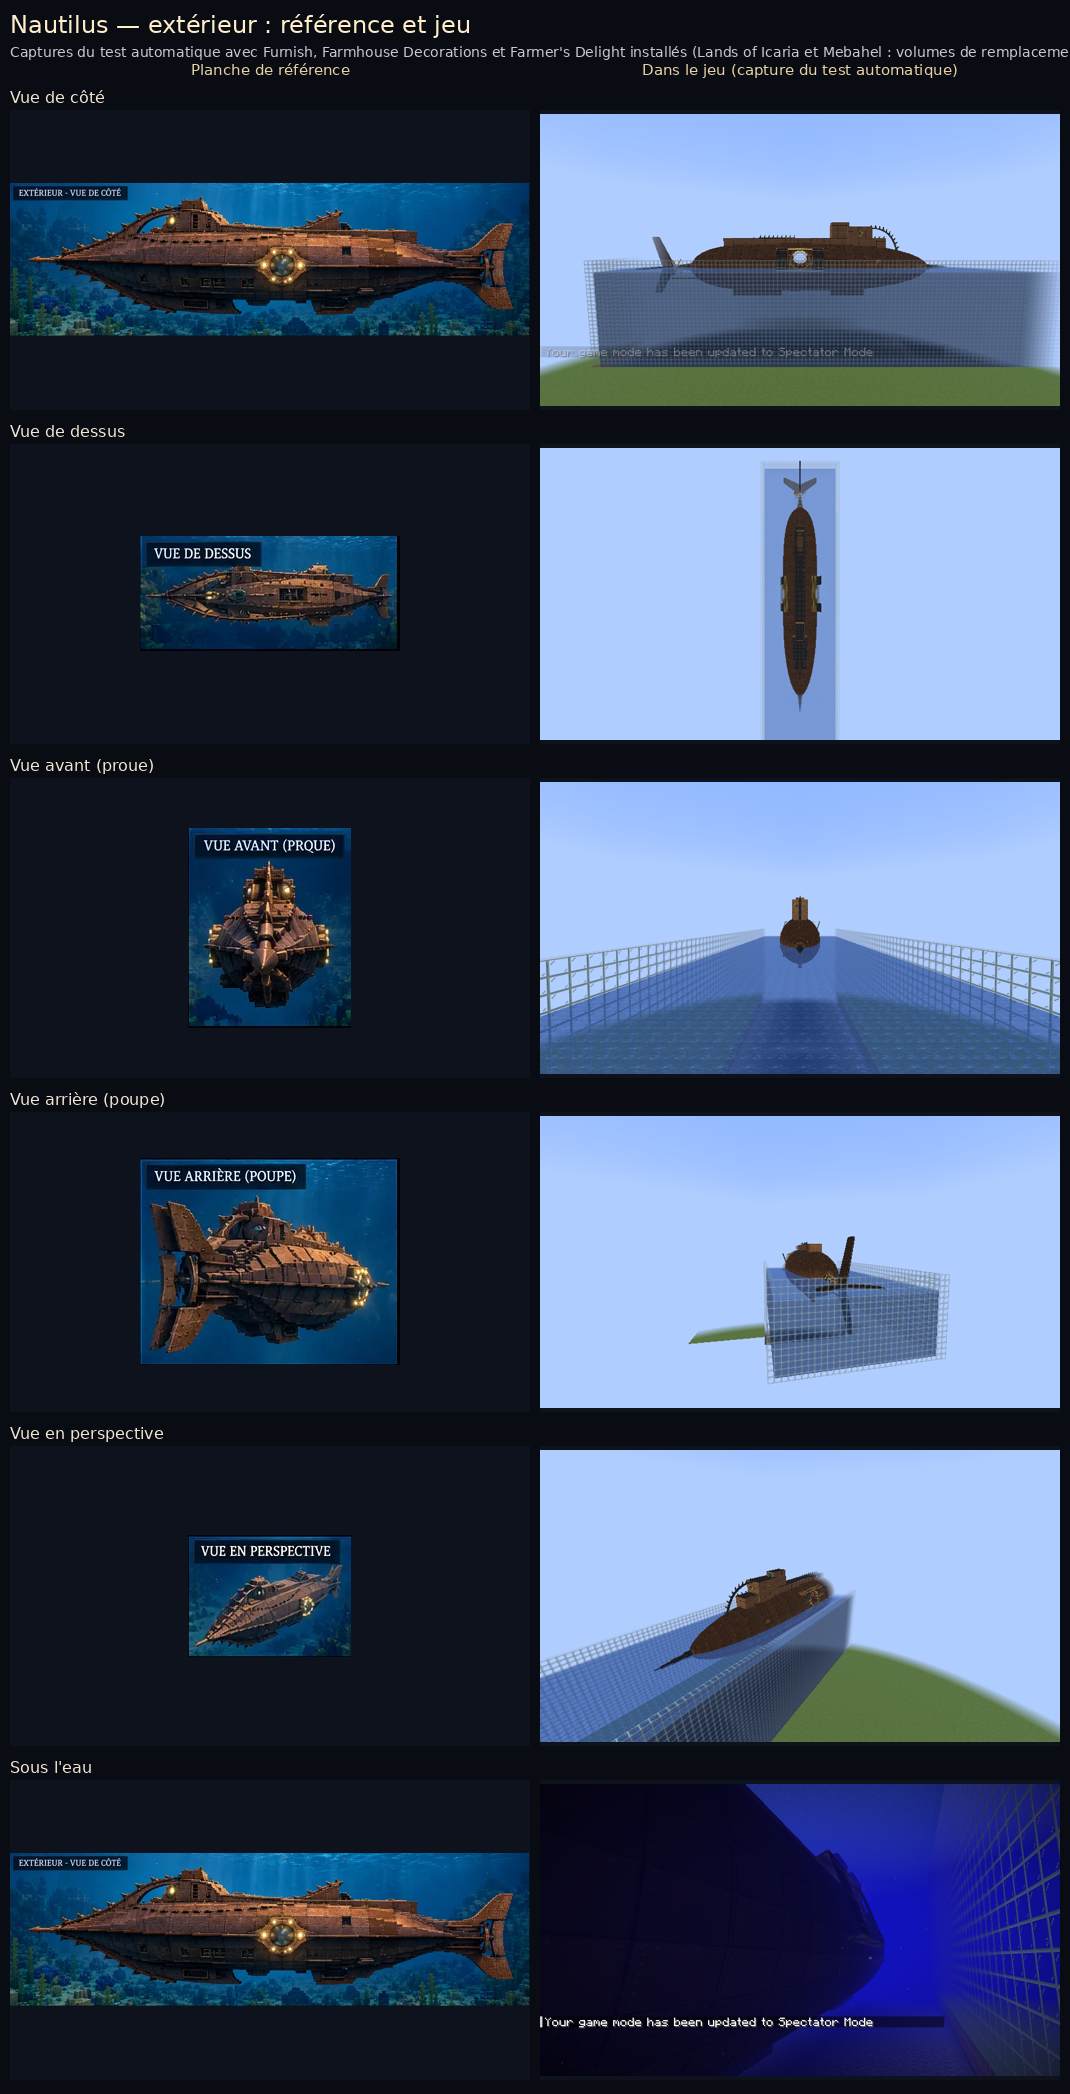
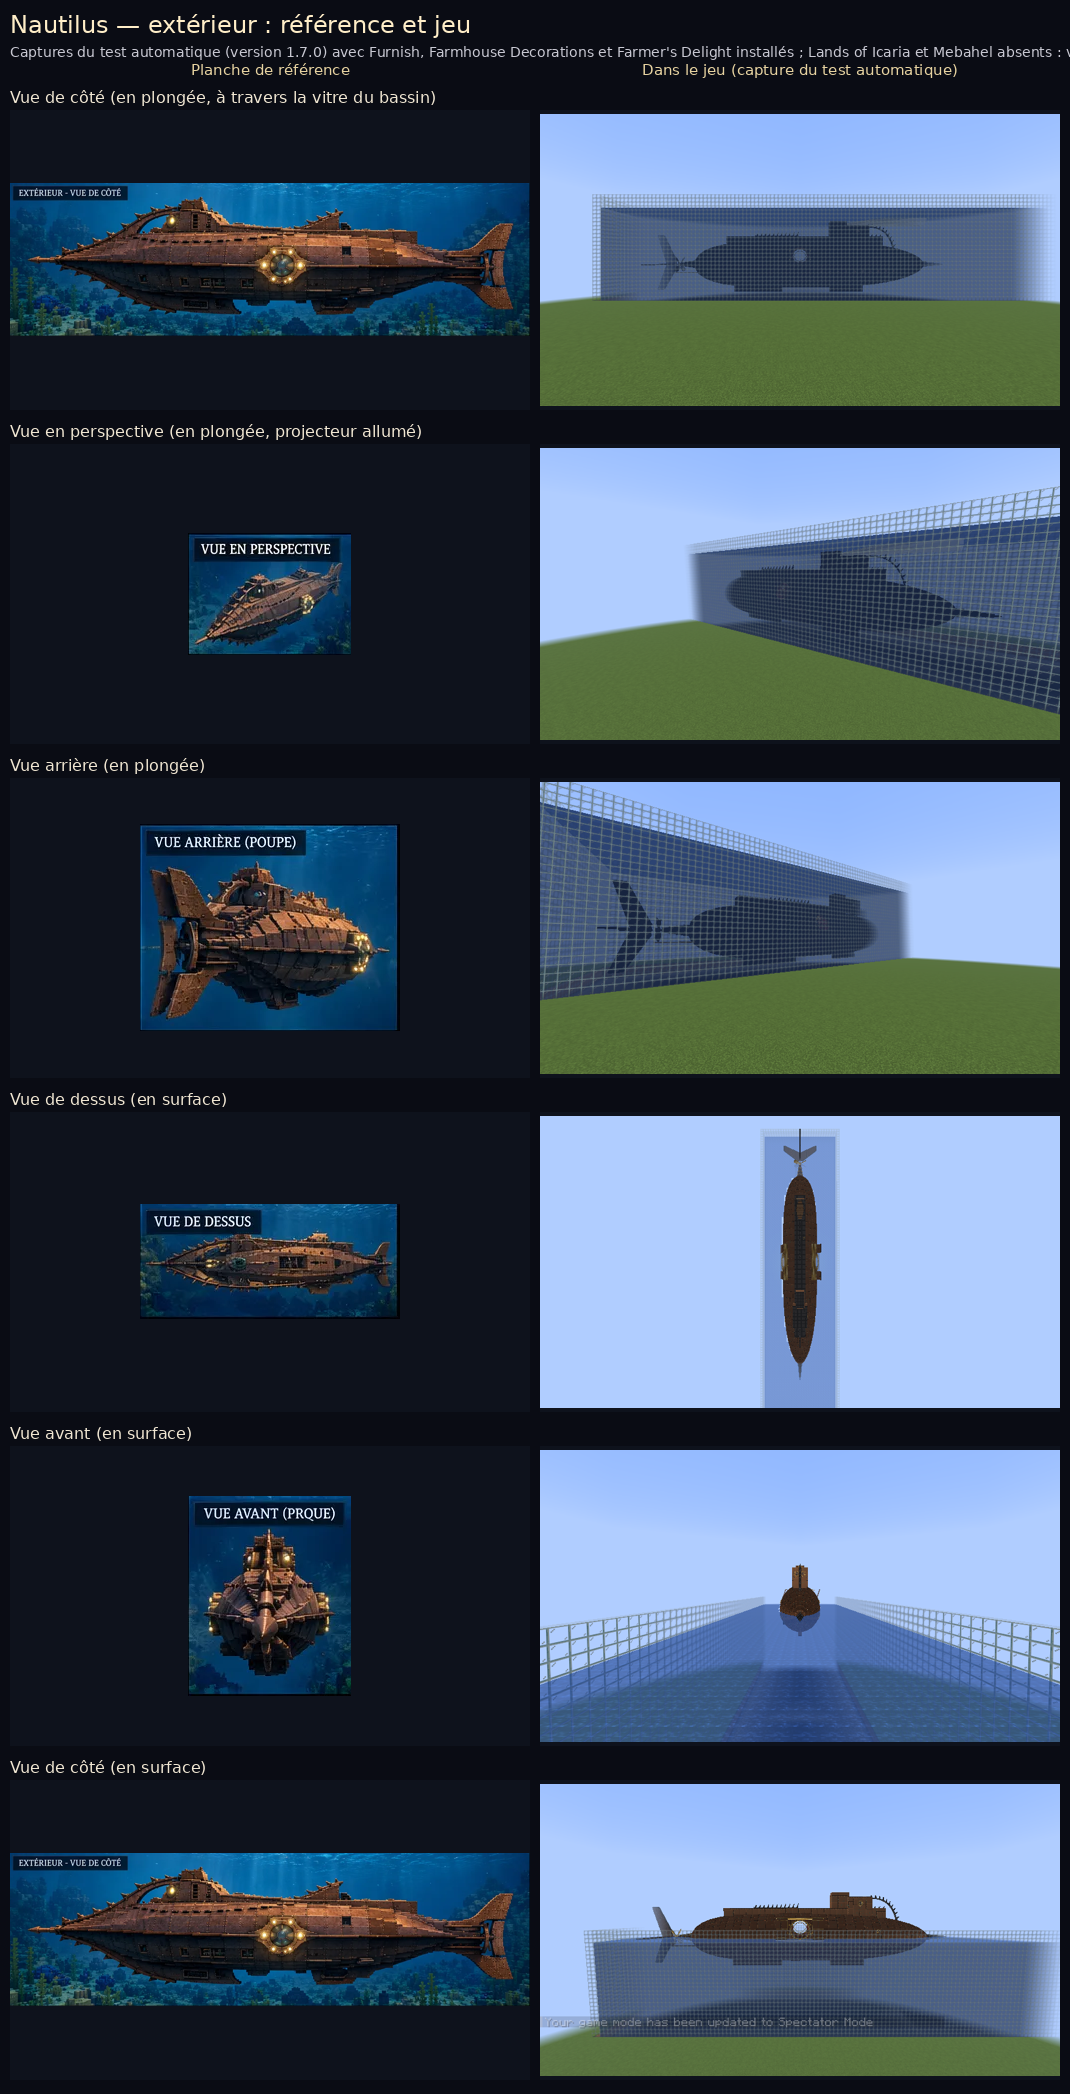
Nautilus: comparison sheets with the reference sheet from the in-game screenshots (decoration mods installed)
Claude-Session: https://claude.ai/code/session_011hUzJAdSyRQ1iYUE1FjecD

diff --git a/docs/NAUTILUS.md b/docs/NAUTILUS.md
@@ -6,6 +6,9 @@ On le pilote comme les autres navires, mais il plonge, tient sa profondeur et re
 
 ![Plan des salles](nautilus_plan.png)
 
+Comparaison avec la planche de référence (captures du test automatique dans le vrai jeu) :
+[extérieur](comparaison_nautilus_exterieur.png), [les 15 panneaux de l'intérieur](comparaison_nautilus_interieur.png).
+
 ## Obtenir et placer le Nautilus
 
 * `/ship give nautilus [joueurs]` donne l'objet « Nautilus — Sous-marin du capitaine Nemo ». `/ship spawn nautilus` le fait apparaître à la position de la commande.
